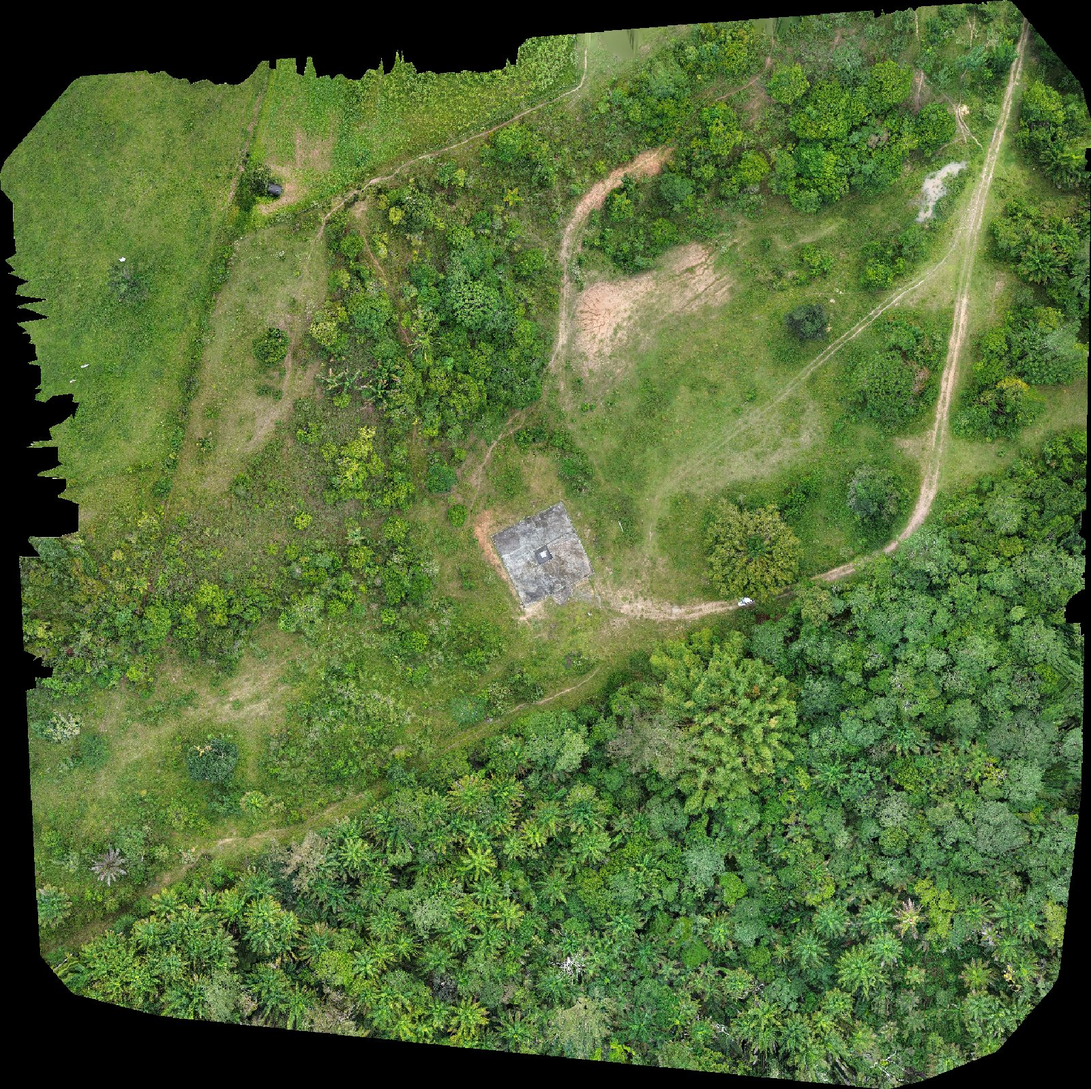
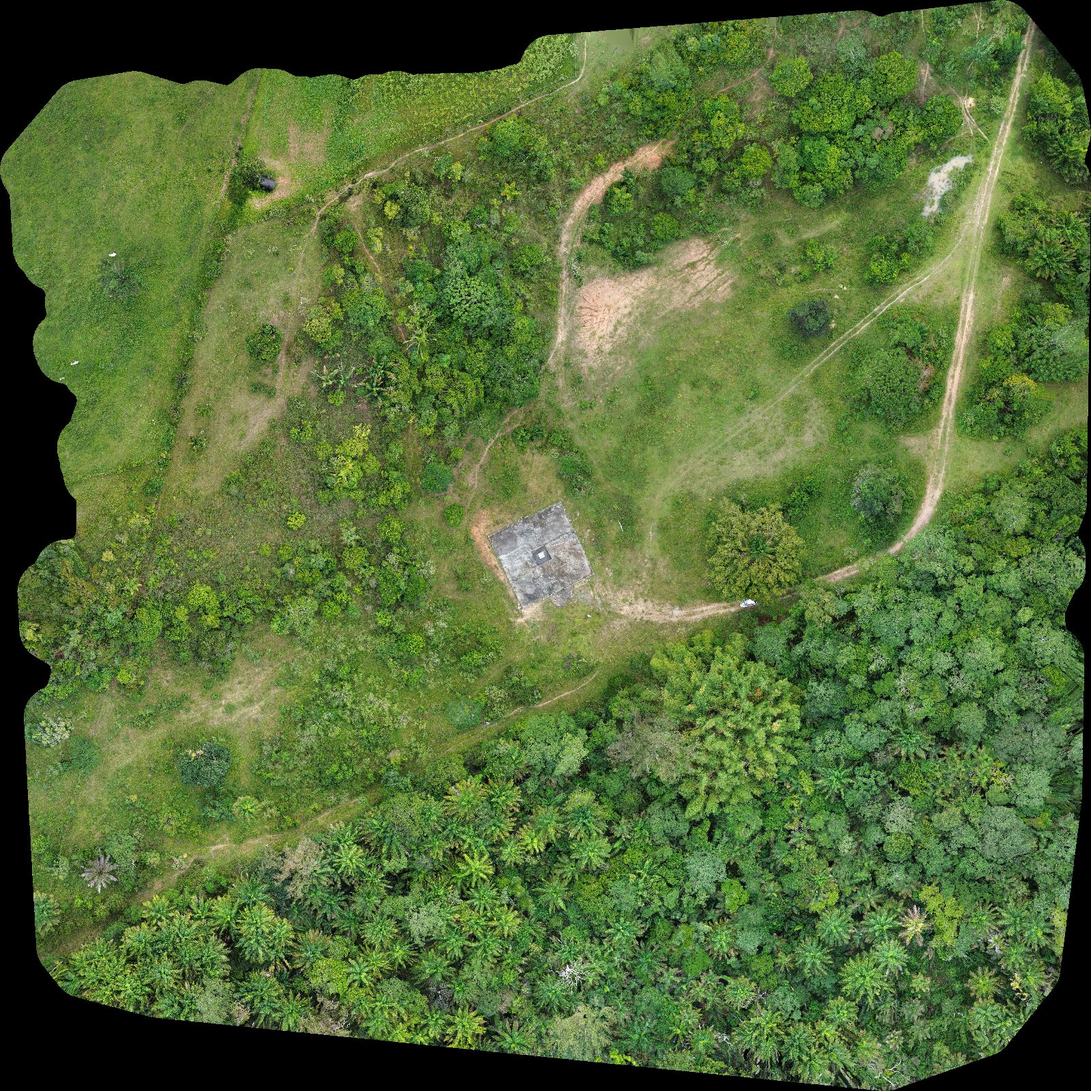
Rodapes limpos + vitrine recortada + Asaas + copy comercial + form intake

diff --git a/index.html b/index.html
@@ -124,7 +124,7 @@ footer strong{color:#fff}
       <a class="btn btn-wa" href="enviar.html">📤 Enviar meu projeto</a>
       <a class="btn btn-ghost" href="#calculadora">Calcular meu preço</a>
     </div>
-    <p class="mini">Primeiro mapa <strong>GRÁTIS</strong> até 150 fotos · até 500 fotos por envio · SLA 48 h úteis · Salvador/BA</p>
+    <p class="mini">Primeiro mapa <strong>GRÁTIS</strong> até 150 fotos · até 500 fotos por envio · seu projeto em até 48 h úteis · Salvador/BA</p>
   </div>
 </div>
 
@@ -204,7 +204,7 @@ footer strong{color:#fff}
           <li>Mínimo <span data-min-job>R$ 45</span>/job</li>
           <li>Todos os produtos-base inclusos</li>
           <li>Pagamento por Pix</li>
-          <li>SLA 48 h úteis</li>
+          <li>Seu projeto em até 48 h úteis</li>
         </ul>
         <a class="btn" href="enviar.html?plano=AVULSO">Enviar projeto</a>
       </div>
@@ -214,11 +214,11 @@ footer strong{color:#fff}
         <div class="preco"><span class="old">R$ 249</span><span class="now" data-preco-start>R$ 75</span><span class="mes">/mês</span></div>
         <ul>
           <li>1.500 fotos/mês</li>
-          <li>Fila padrão · SLA 48 h úteis</li>
+          <li>Seu projeto em até 48 h úteis</li>
           <li>Relatório técnico incluso</li>
           <li>Excedente <span data-excedente>R$ 0,24</span>/foto</li>
         </ul>
-        <a class="btn" href="enviar.html?plano=START">Assinar START</a>
+        <a class="btn" href="https://www.asaas.com/c/lki5x19qsr9rz7mh" target="_blank" rel="noopener">Assinar START</a>
       </div>
       <div class="card plan">
         <h3>PRO</h3>
@@ -229,20 +229,20 @@ footer strong{color:#fff}
           <li>Relatório white-label (sua logo)</li>
           <li>Excedente <span data-excedente>R$ 0,24</span>/foto</li>
         </ul>
-        <a class="btn" href="enviar.html?plano=PRO">Assinar PRO</a>
+        <a class="btn" href="https://www.asaas.com/c/j9o3eh4t9et1bfbj" target="_blank" rel="noopener">Assinar PRO</a>
       </div>
       <div class="card plan soon">
         <h3>HEAVY</h3>
         <div class="preco"><span class="now">Em breve</span></div>
         <ul>
           <li>10.000 fotos/mês</li>
-          <li>SLA 24 h · suporte direto</li>
+          <li>Seu projeto em até 24 h · suporte direto</li>
           <li>Retenção de dados 12 meses</li>
         </ul>
         <a class="btn" href="#contato" style="pointer-events:none">Lista de espera</a>
       </div>
     </div>
-    <p class="beta-note">Preços do beta de lançamento (70% de desconto sobre a tabela). Laudo com ART (R$ 400–1.500) e volumetria (+R$ 90/pilha) sob orçamento. Franquias mensais não cumulativas.</p>
+    <p class="beta-note">Preços do beta de lançamento (70% de desconto sobre a tabela). Laudo com ART (R$ 400–1.500) e volumetria (+R$ 90/pilha) sob orçamento. Franquias mensais não cumulativas. Pagamento seguro via Asaas (boleto/cartão · Pix em breve).</p>
   </div>
 </section>
 
@@ -256,7 +256,7 @@ footer strong{color:#fff}
       <div class="card"><span class="ico">🔒</span><h3>Seus dados protegidos</h3><p>LGPD: brutos excluídos em 30 dias, produtos disponíveis por 90. Seus arquivos são só seus.</p></div>
       <div class="card"><span class="ico">🇧🇷</span><h3>Padrão brasileiro</h3><p>SIRGAS 2000/UTM, atendimento em português por especialista, preço em reais com Pix.</p></div>
       <div class="card"><span class="ico">👨🔬</span><h3>Especialista de verdade</h3><p>Atendimento com Técnico em Geologia registrado — não é chatbot de plataforma gringa.</p></div>
-      <div class="card"><span class="ico">⏱</span><h3>Fila transparente</h3><p>SLA honesto de 48 h úteis e você sabe a posição do seu job na fila.</p></div>
+      <div class="card"><span class="ico">⏱</span><h3>Seu projeto em até 48 h</h3><p>Prazo honesto em horas úteis — e você sempre sabe a posição do seu job na fila.</p></div>
     </div>
   </div>
 </section>
@@ -286,11 +286,9 @@ footer strong{color:#fff}
 </section>
 
 <footer>
-  <div class="wrap">
-    <div><strong>MAP.IA by Aeroclick</strong> · processamento.tech</div>
-    <div>Aeroclick — Arnon de Oliveira Fernandes · CNPJ 30.802.792/0001-89 · Salvador/BA</div>
-    <div>Responsável Técnico: Arnon de Oliveira Fernandes — Técnico em Geologia, RNP 05292828521</div>
-    <div><a href="termos.html" style="color:#C9D7EA">Termos de Serviço</a> · Projetos de até 500 fotos por envio — acima disso, fale com a gente.</div>
+  <div class="wrap" style="display:block;text-align:center;font-size:.78rem">
+    <div><strong>AeroClick</strong> · CNPJ 30.802.792/0001-89 · Salvador/BA</div>
+    <div style="margin-top:6px"><a href="termos.html" style="color:#C9D7EA">Termos de Serviço</a></div>
   </div>
 </footer>
 

diff --git a/termos.html b/termos.html
@@ -86,6 +86,6 @@ footer a{color:var(--ink-soft)}
 <p>13.2. Fica eleito o foro da Comarca de Salvador/BA, com renúncia a qualquer outro.</p>
 <p>13.3. O envio de dados para processamento implica aceite integral destes Termos.</p>
 </main></div>
-<footer>MAP.IA by Aeroclick · Aeroclick — Arnon de Oliveira Fernandes · CNPJ 30.802.792/0001-89 · Salvador/BA · <a href="index.html">voltar ao início</a></footer>
+<footer><strong>AeroClick</strong> · CNPJ 30.802.792/0001-89 · Salvador/BA<br><a href="index.html">voltar ao início</a></footer>
 </body>
 </html>

diff --git a/enviar.html b/enviar.html
@@ -93,7 +93,7 @@ footer{text-align:center;color:var(--ink-soft);font-size:.82rem;padding:20px 0 4
   <button type="submit" id="btn" disabled>💬 Enviar pelo WhatsApp</button>
 </form>
 </main></div>
-<footer>MAP.IA by Aeroclick · CNPJ 30.802.792/0001-89 · <a href="termos.html">Termos</a> · atendimento seg–sex 8h–18h</footer>
+<footer><strong>AeroClick</strong> · CNPJ 30.802.792/0001-89 · Salvador/BA<br><a href="termos.html">Termos de Serviço</a> · atendimento seg–sex 8h–18h</footer>
 
 <script>
 var WHATSAPP = "5575992224009";
